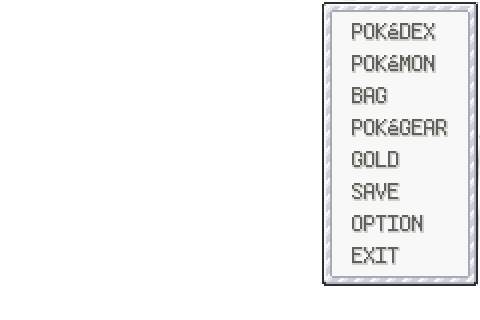
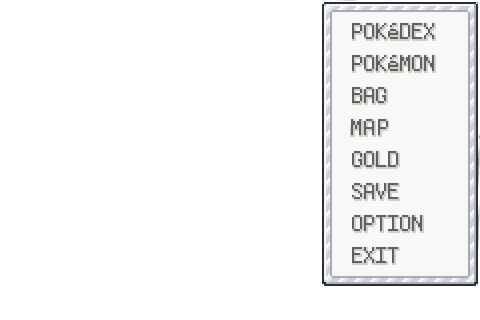
Implemented printing to use images

Changed region(s): [[0.7188, 0.375, 0.9375, 0.4375]]

diff --git a/src/graphics/PartyScene.java b/src/graphics/PartyScene.java
@@ -1,0 +1,112 @@
+package graphics;
+
+import java.awt.Color;
+import java.awt.Graphics;
+
+import model.Coordinate;
+import party.Party;
+import controller.GameController;
+
+/**
+ * A representation of the party scene
+ */
+public class PartyScene extends BaseScene {
+
+	private static final long serialVersionUID = 4269262897256769883L;
+	/**
+	 * Singleton instance
+	 */
+	public static PartyScene instance = new PartyScene();
+
+	private static String partyFirstMember = "PartyFirst";
+	private static String partyMember = "PartyBar";
+	private static String partyBackground = "PartyBG";
+	private static String partyCancel = "PartyCancel";
+
+	/**
+	 * Render the party scene.
+	 */
+	@Override
+	public void render(Graphics g, GameController gameControl) {
+		g.setColor(Color.BLACK);
+		g.drawImage(SpriteLibrary.getImage(partyBackground), 0, 0, null);
+
+		int party_index = 0;
+		int selection = gameControl.getCurrentRowSelection();
+
+		if (selection == party_index) {
+			g.drawImage(SpriteLibrary.getImage(partyFirstMember + "_Selected"), 40, 20, null);
+		} else {
+			g.drawImage(SpriteLibrary.getImage(partyFirstMember + "_NotSelected"), 40, 20, null);
+		}
+
+		int paintX = 190;
+		int paintY = 20;
+
+		for (party_index = 1; party_index < 6; party_index++) {
+			if (party_index == selection) {
+				g.drawImage(SpriteLibrary.getImage(partyMember + "_Selected"), paintX, paintY, null);
+			} else {
+				g.drawImage(SpriteLibrary.getImage(partyMember + "_NotSelected"), paintX, paintY, null);
+			}
+			paintY += 50;
+		}
+
+		Party playerPokemon = gameControl.getPlayer().getParty();
+		if (playerPokemon.size() > 0) {
+			g.drawImage((playerPokemon.get(0)).getIcon().getImage(), 75, 40, null);
+			Painter.paintSmallString(g, (playerPokemon.get(0)).getName(), 45, 125);
+		}
+
+		paintX = 200;
+		paintY = 25;
+
+		for (party_index = 1; party_index < playerPokemon.size(); party_index++) {
+			g.drawImage((playerPokemon.get(party_index)).getIcon().getImage(), paintX, paintY, null);
+			g.drawString((playerPokemon.get(party_index)).getName(), paintX + 50, paintY + 20);
+			paintY += 50;
+		}
+
+		paintX += 170;
+		paintY -= 5;
+		if (selection > 6) {
+			g.drawImage(SpriteLibrary.getImage(partyCancel + "_Selected"), paintX, paintY, null);
+		} else {
+			g.drawImage(SpriteLibrary.getImage(partyCancel + "_NotSelected"), paintX, paintY, null);
+		}
+	}
+
+	/**
+	 * "x" button press at Party scene
+	 */
+	public void doBack(GameController control) {
+		control.setScene(MenuScene.instance);
+	}
+
+	/**
+	 * up arrow button press at Party scene
+	 */
+	public void doUp(GameController control) {
+		int row = control.getCurrentRowSelection();
+		int col = control.getCurrentColSelection();
+		int numPokemon = control.getPlayer().getParty().size();
+		if (row > numPokemon - 1) {
+			control.setCurrentSelection(new Coordinate(numPokemon - 1, col));
+		} else if (control.getCurrentRowSelection() > 0)
+			control.decrementRowSelection();
+	}
+
+	/**
+	 * up arrow button press at Party scene
+	 */
+	public void doDown(GameController control) {
+		int row = control.getCurrentRowSelection();
+		int col = control.getCurrentColSelection();
+		int numPokemon = control.getPlayer().getParty().size();
+		if (row < numPokemon - 1)
+			control.incrementRowSelection();
+		else if (row == numPokemon - 1) {
+			control.setCurrentSelection(new Coordinate(7, col));
+		}
+	}
+}

diff --git a/src/graphics/Painter.java b/src/graphics/Painter.java
@@ -89,7 +89,44 @@ public class Painter {
 	 * @param startY
 	 *            - the starting y location
 	 */
+	static void paintSmallString(Graphics g, String string, int startX, int startY) {
+		string = string.toUpperCase();
+		int offset = ((int) (Tile.TILESIZE / 2.7));
+		for (int x = 0; x < string.toCharArray().length; x++) {
+			switch (string.toCharArray()[x]) {
+			case '?':
+				g.drawImage(SpriteLibrary.getImage("QUESTION"), startX + offset * x, startY, null);
+				break;
+			case '.':
+				g.drawImage(SpriteLibrary.getImage("PERIOD"), startX + offset * x, startY, null);
+				break;
+			case ' ':
+				g.drawImage(SpriteLibrary.getImage("SPACE_small"), startX + offset * x, startY, null);
+				break;
+			case ':':
+				g.drawImage(SpriteLibrary.getImage("COLON_small"), startX + offset * x, startY, null);
+				break;
+			default:
+				g.drawImage(SpriteLibrary.getInstance().getSmallFontChar(string.toCharArray()[x]).getImage(), startX
+						+ offset * x, startY, null);
+			}
+		}
+	}
+
+	/**
+	 * Paint a given string to a given location of the screen
+	 * 
+	 * @param g
+	 *            - the graphics to paint with
+	 * @param string
+	 *            - the string to paint
+	 * @param startX
+	 *            - the starting x location
+	 * @param startY
+	 *            - the starting y location
+	 */
 	static void paintString(Graphics g, String string, int startX, int startY) {
+		string = string.toUpperCase();
 		for (int x = 0; x < string.toCharArray().length; x++) {
 			switch (string.toCharArray()[x]) {
 			case '?':
@@ -100,6 +137,9 @@ public class Painter {
 				break;
 			case ' ':
 				g.drawImage(SpriteLibrary.getImage("SPACE"), startX + Tile.TILESIZE * x, startY, null);
+				break;
+			case ':':
+				g.drawImage(SpriteLibrary.getImage("COLON"), startX + Tile.TILESIZE * x, startY, null);
 				break;
 			default:
 				g.drawImage(SpriteLibrary.getInstance().getFontChar(string.toCharArray()[x]).getImage(), startX

diff --git a/src/graphics/HelpScene.java b/src/graphics/HelpScene.java
@@ -10,13 +10,13 @@ import controller.GameController;
 /**
  * A representation of pokegear scene
  */
-public class PokegearScene extends BaseScene {
+public class HelpScene extends BaseScene {
 
 	private static final long serialVersionUID = 8611728687807704267L;
 	/**
 	 * Singleton instance
 	 */
-	public static PokegearScene instance = new PokegearScene();
+	public static HelpScene instance = new HelpScene();
 
 	/**
 	 * Render the pokegear scene.
@@ -24,21 +24,23 @@ public class PokegearScene extends BaseScene {
 	@Override
 	public void render(Graphics g, GameController gameControl) {
 		g.setColor(Color.BLACK);
-		g.drawImage(SpriteLibrary.getImage("PokegearBG"), 0, 0, null);
-		switch (gameControl.getCurrentRowSelection()) {
-		case 0:
-			g.drawImage(SpriteLibrary.getImage("PokegearMap"), 0, 0, null);
-			break;
-		case 1:
-			g.drawImage(SpriteLibrary.getImage("PokegearRadio"), 0, 0, null);
-			break;
-		case 2:
-			g.drawImage(SpriteLibrary.getImage("PokegearPhone"), 0, 0, null);
-			break;
-		case 3:
-			g.drawImage(SpriteLibrary.getImage("PokegearExit"), 0, 0, null);
-			break;
-		}
+		g.drawImage(SpriteLibrary.getImage("Map"), 0, 0, null);
+
+		// TODO paint rectangle around selection
+
+		// TODO up arrow increment map selection, down arrow decrement
+
+		/**
+		 * g.setColor(Color.BLACK);
+		 * g.drawImage(SpriteLibrary.getImage("PokegearBG"), 0, 0, null); switch
+		 * (gameControl.getCurrentRowSelection()) { case 0:
+		 * g.drawImage(SpriteLibrary.getImage("PokegearMap"), 0, 0, null);
+		 * break; case 1: g.drawImage(SpriteLibrary.getImage("PokegearRadio"),
+		 * 0, 0, null); break; case 2:
+		 * g.drawImage(SpriteLibrary.getImage("PokegearPhone"), 0, 0, null);
+		 * break; case 3: g.drawImage(SpriteLibrary.getImage("PokegearExit"), 0,
+		 * 0, null); break; }
+		 */
 	}
 
 	/**

diff --git a/src/graphics/PlayerInfoScene.java b/src/graphics/PlayerInfoScene.java
@@ -7,15 +7,15 @@ import trainers.Player;
 import controller.GameController;
 
 /**
- * A representation of a title scene
+ * A representation of player information
  */
-public class TrainerCardScene extends BaseScene {
+public class PlayerInfoScene extends BaseScene {
 
 	private static final long serialVersionUID = 3015914725120653475L;
 	/**
 	 * Singleton instance
 	 */
-	public static TrainerCardScene instance = new TrainerCardScene();
+	public static PlayerInfoScene instance = new PlayerInfoScene();
 
 	/**
 	 * Pad a given string with appropriate spacing
@@ -43,11 +43,12 @@ public class TrainerCardScene extends BaseScene {
 		g.drawImage(SpriteLibrary.getImage("Male"), 320, 100, null);
 
 		Player player = gameControl.getPlayer();
-		g.drawString("ID:  " + player.getID(), 295, 54);
-		g.drawString("Name:" + getPadding("Name:") + player.getName(), 64, 93);
-		g.drawString("Money:" + getPadding("Money:") + "$" + player.getMoney(), 64, 150);
-		g.drawString("Pokedex:" + getPadding("Pokedex:") + player.getNumPokemonOwned(), 64, 183);
-		g.drawString("Time:  " + getPadding("Time:") + gameControl.formatTime(), 64, 213);
+
+		Painter.paintSmallString(g, "ID " + player.getID(), 295, 40);
+		Painter.paintSmallString(g, "Name:" + getPadding("Name:") + player.getName(), 65, 80);
+		Painter.paintSmallString(g, "Money:" + getPadding("Money:") + "$" + player.getMoney(), 65, 140);
+		Painter.paintSmallString(g, "Pokedex:" + getPadding("Pokedex:") + player.getNumPokemonOwned(), 65, 170);
+		Painter.paintSmallString(g, "Time:" + getPadding("Time:") + gameControl.formatTime(), 65, 200);
 	}
 
 	/**

diff --git a/src/controller/GameController.java b/src/controller/GameController.java
@@ -613,8 +613,16 @@ public class GameController implements Serializable {
 			player = new Player(4, 2, name);
 			Battler charmander = BattlerFactory.createPokemon("Charmander", 7);
 			Battler sentret = BattlerFactory.createPokemon("Sentret", 3);
+			Battler charizard = BattlerFactory.createPokemon("Charmander", 99);
+			Battler pidgey = BattlerFactory.createPokemon("Pidgey", 20);
+			Battler mewtwo = BattlerFactory.createPokemon("Mewtwo", 50);
+			Battler squirtle = BattlerFactory.createPokemon("Squirtle", 50);
 			player.caughtWild(charmander);
 			player.caughtWild(sentret);
+			player.caughtWild(charizard);
+			player.caughtWild(pidgey);
+			player.caughtWild(mewtwo);
+			player.caughtWild(squirtle);
 			player.setMoney(1000000);
 			player.setCurLocation(LocationLibrary.getLocation("Route 27"));
 			playBackgroundMusic();

diff --git a/src/graphics/MenuScene.java b/src/graphics/MenuScene.java
@@ -28,11 +28,11 @@ public class MenuScene extends BaseScene {
 	private MenuScene() {
 		super();
 
-		menuSelections.put(0, PokedexScene.instance);
-		menuSelections.put(1, PokemonScene.instance);
-		menuSelections.put(2, BagScene.instance);
-		menuSelections.put(3, PokegearScene.instance);
-		menuSelections.put(4, TrainerCardScene.instance);
+		menuSelections.put(0, EncycopediaScene.instance);
+		menuSelections.put(1, PartyScene.instance);
+		menuSelections.put(2, ItemStorageScene.instance);
+		menuSelections.put(3, HelpScene.instance);
+		menuSelections.put(4, PlayerInfoScene.instance);
 		menuSelections.put(5, SaveScene.instance);
 		menuSelections.put(6, OptionScene.instance);
 		menuSelections.put(7, WorldScene.instance);

diff --git a/src/graphics/SpriteLibrary.java b/src/graphics/SpriteLibrary.java
@@ -66,6 +66,23 @@ public class SpriteLibrary extends HashMap<String, ArrayList<ImageIcon>> {
 	}
 
 	/**
+	 * Returns the Font character Image corresponding to the given char
+	 * 
+	 * @param c
+	 *            - the character to look up
+	 * @return an ImageIcon for a text character
+	 */
+	public ImageIcon getSmallFontChar(Character c) {
+		String name = c.toString() + "_small.png";
+		if (containsKey(name)) {
+			return get(name).get(0);
+		} else {
+			getImageIcon(c.toString() + "_small");
+			return get(name).get(0);
+		}
+	}
+
+	/**
 	 * Get the set of 12 directional sprites that correspond to the given name
 	 * 
 	 * @param name

diff --git a/src/graphics/Scene.java b/src/graphics/Scene.java
@@ -13,18 +13,6 @@ import controller.GameController;
  * method to paint the graphics.
  */
 public interface Scene extends Serializable {
-	/**
-	 * String locator for the party first member image
-	 */
-	static String partyFirstMember = "PartyFirst";
-	/**
-	 * String locator for the party member image box
-	 */
-	static String partyMember = "PartyBar";
-	/**
-	 * String locator for the party member background image
-	 */
-	static String partyBackground = "PartyBG";
 
 	/**
 	 * Render graphics for a Scene

diff --git a/src/graphics/EncycopediaScene.java b/src/graphics/EncycopediaScene.java
@@ -7,13 +7,13 @@ import controller.GameController;
 /**
  * A representation of a pokedex scene
  */
-public class PokedexScene extends BaseScene {
+public class EncycopediaScene extends BaseScene {
 
 	private static final long serialVersionUID = 5686250415092668247L;
 	/**
 	 * Singleton instance
 	 */
-	public static PokedexScene instance = new PokedexScene();
+	public static EncycopediaScene instance = new EncycopediaScene();
 
 	/**
 	 * Render the title scene.

diff --git a/src/graphics/ItemStorageScene.java b/src/graphics/ItemStorageScene.java
@@ -8,13 +8,13 @@ import controller.GameController;
 /**
  * A representation of a bag scene
  */
-public class BagScene extends BaseScene {
+public class ItemStorageScene extends BaseScene {
 
 	private static final long serialVersionUID = 6315775737915830498L;
 	/**
 	 * Singleton instance
 	 */
-	public static BagScene instance = new BagScene();
+	public static ItemStorageScene instance = new ItemStorageScene();
 
 	/**
 	 * Render the bag scene.

diff --git a/src/model/GameTime.java b/src/model/GameTime.java
@@ -115,6 +115,6 @@ public class GameTime implements Serializable {
 			minutes = 60 - (minutes / 60);
 		}
 		DecimalFormat df = new DecimalFormat("00");
-		return df.format(hours) + ": " + df.format(minutes) + ": " + df.format(seconds);
+		return df.format(hours) + ":" + df.format(minutes) + ":" + df.format(seconds);
 	}
 }

diff --git a/src/graphics/BattlePartyScene.java b/src/graphics/BattlePartyScene.java
@@ -23,7 +23,7 @@ public class BattlePartyScene extends BaseScene {
 	 */
 	@Override
 	public void render(Graphics g, GameController gameControl) {
-		PokemonScene.instance.render(g, gameControl);
+		PartyScene.instance.render(g, gameControl);
 	}
 
 	/**
